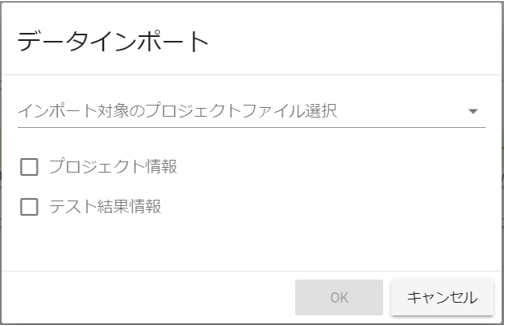
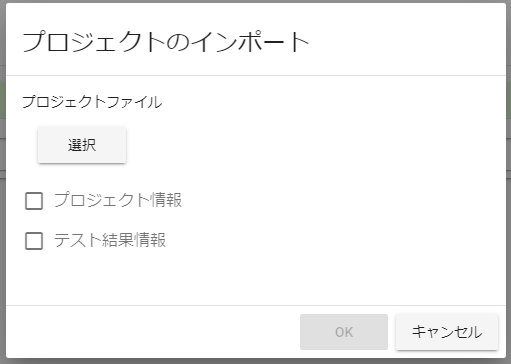
correction the autofill part of the manual

Changed region(s): [[0.0, 0.0, 1.0, 1.0], [0.9208, 0.3374, 0.9505, 0.3681], [0.6535, 0.8896, 0.6832, 0.9202]]

diff --git a/docs/manual/management/manual-management.md b/docs/manual/management/manual-management.md
@@ -66,8 +66,8 @@
 
 - スナップショット出力
 - テストスクリプト生成
-- データインポート
-- データエクスポート
+- プロジェクトのインポート
+- プロジェクトのエクスポート
 
 #### スナップショット出力
 
@@ -81,13 +81,13 @@
 オプション機能の一覧から押下すると登録された全てのセッションを元にテストスクリプトを生成します。
 詳細は「[テストスクリプト自動生成](../common/test-script-generation.md)」をご参照ください。
 
-#### データインポート
+#### プロジェクトのインポート
 
 オプション機能の一覧から押下するとインポート対象ファイル選択ダイアログが表示されます。
 
 <img src="images/import-dialog.png" />
 
-`latteart-repository\public\imports`フォルダ配下の zip ファイル名一覧を取得してプルダウンリストに表示され、プロジェクト情報、テスト結果情報のチェックボックスでインポート対象を選択可能です。  
+「選択」ボタンを押下するとファイル選択ダイアログが表示され、プロジェクト情報、テスト結果情報のチェックボックスでインポート対象を選択可能です。  
 OK ボタンを押下し、データがインポートされます。
 
 :bulb: プロジェクト情報とは、管理ツールで表示されている全てのテストマトリクスを指します。
@@ -114,7 +114,7 @@ OK ボタンを押下し、データがインポートされます。
 :bulb: 過去バージョンからデータをインポートしたい場合は
 `latteart-repository\public`配下を選択し、zip にしたものをインポートします。
 
-#### データエクスポート
+#### プロジェクトのエクスポート
 
 オプション機能の一覧から押下するとエクスポート対象選択ダイアログが表示されます。
 
